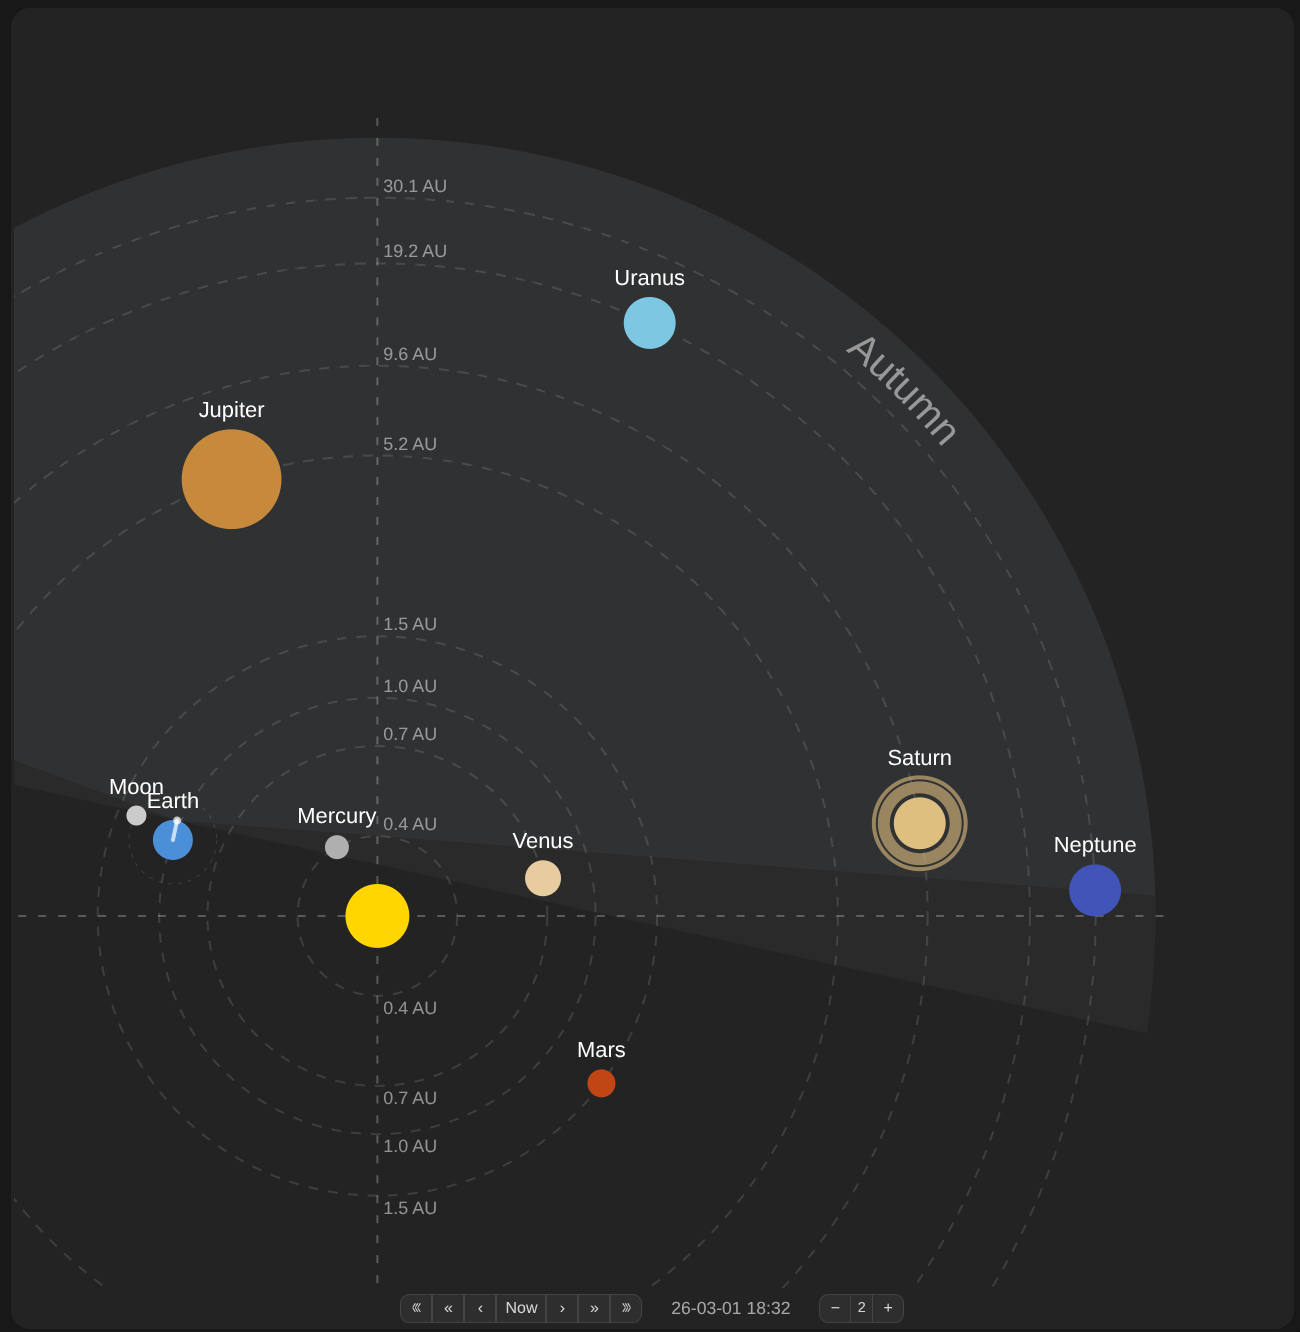
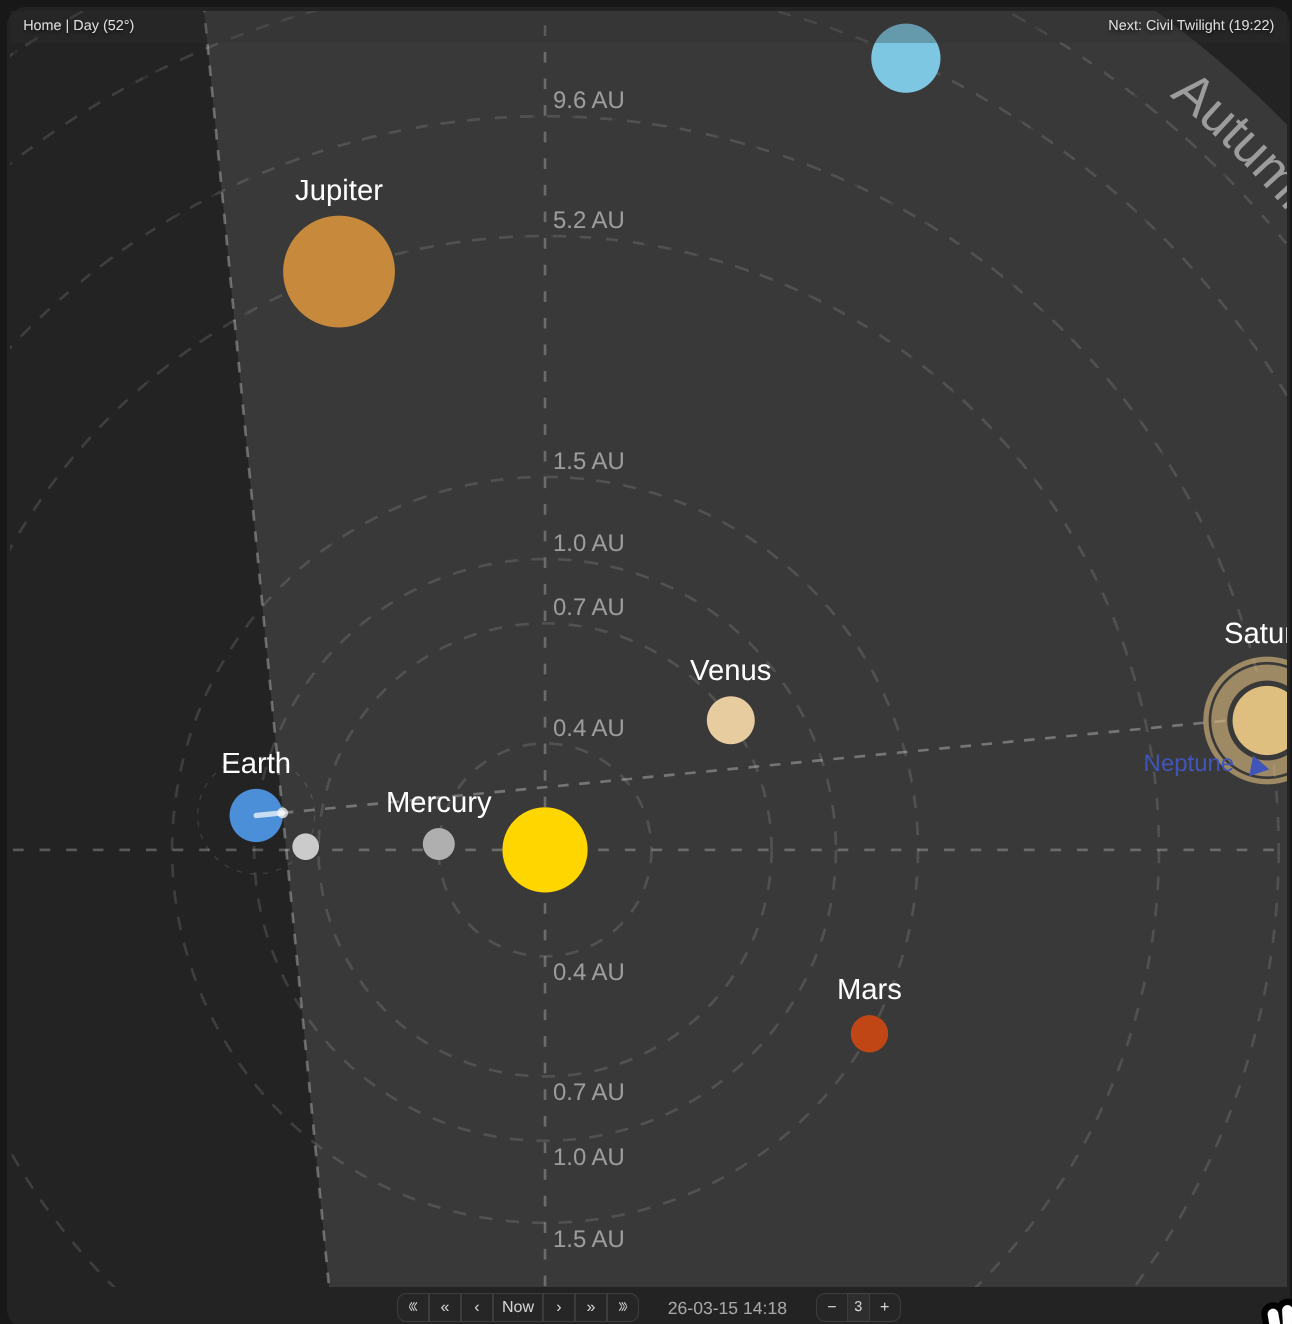
markers and zenith

diff --git a/dist/ha-solar-view-card.js b/dist/ha-solar-view-card.js
@@ -619,7 +619,7 @@ const SEASON_LINE_COLOR = "rgba(255, 255, 255, 0.25)";
 const SEASON_LABEL_COLOR = "rgba(255, 255, 255, 0.5)";
 const SEASON_FONT_SIZE = 20;
 
-function renderSeasonOverlay(svg, hemisphere, viewState) {
+function renderSeasonOverlay(svg, hemisphere) {
   // Dotted dividing lines through the Sun
   svg.appendChild(
     createSvgElement("line", {
@@ -663,11 +663,7 @@ function renderSeasonOverlay(svg, hemisphere, viewState) {
   ];
 
   const seasons = hemisphere === "south" ? southSeasons : northSeasons;
-  const defaultRadius = MAX_RADIUS + 20;
-  const labelRadius =
-    viewState && viewState.zoomLevel > 1
-      ? Math.min(defaultRadius, viewState.width / 2 - 15)
-      : defaultRadius;
+  const labelRadius = MAX_RADIUS + 20;
 
   const defs =
     svg.querySelector("defs") || svg.insertBefore(createSvgElement("defs", {}), svg.firstChild);
@@ -746,7 +742,7 @@ function renderSolarSystem(
   renderDayNightSplit(svg, earthRadius, date, earth.size, locationData);
 
   // Season quadrant overlay (after day/night, before orbits)
-  renderSeasonOverlay(svg, hemisphere, viewState);
+  renderSeasonOverlay(svg, hemisphere);
 
   // Draw orbits
   for (const planet of PLANETS) {
@@ -802,7 +798,7 @@ function renderSolarSystem(
   const moonPixelOffset = 22; // pixels from Earth
   const moonX = earthX + moonPixelOffset * Math.cos(moonAngle);
   const moonY = earthY - moonPixelOffset * Math.sin(moonAngle);
-  positions.push({ name: MOON.name, x: moonX, y: moonY, color: MOON.color });
+  positions.push({ name: MOON.name, x: moonX, y: moonY, color: MOON.color, offscreen: false });
 
   // Moon orbit (dotted circle centered on Earth)
   svg.appendChild(
@@ -817,7 +813,7 @@ function renderSolarSystem(
     })
   );
 
-  renderBody(svg, moonX, moonY, MOON);
+  renderBody(svg, moonX, moonY, MOON, false);
   expandBounds(bounds, moonX, moonY, MOON.size + 17);
 
   // Observer needle on Earth (tip at surface)
@@ -956,6 +952,9 @@ function renderOffscreenMarkers(positions, viewState) {
   const bottom = top + h;
 
   for (const pos of positions) {
+    // Skip bodies that opt out of offscreen markers (e.g. Moon)
+    if (pos.offscreen === false) continue;
+
     // Skip if inside viewport
     if (pos.x >= left && pos.x <= right && pos.y >= top && pos.y <= bottom) {
       continue;

diff --git a/docs/ha-solar-view-card.js b/docs/ha-solar-view-card.js
@@ -619,7 +619,7 @@ const SEASON_LINE_COLOR = "rgba(255, 255, 255, 0.25)";
 const SEASON_LABEL_COLOR = "rgba(255, 255, 255, 0.5)";
 const SEASON_FONT_SIZE = 20;
 
-function renderSeasonOverlay(svg, hemisphere, viewState) {
+function renderSeasonOverlay(svg, hemisphere) {
   // Dotted dividing lines through the Sun
   svg.appendChild(
     createSvgElement("line", {
@@ -663,11 +663,7 @@ function renderSeasonOverlay(svg, hemisphere, viewState) {
   ];
 
   const seasons = hemisphere === "south" ? southSeasons : northSeasons;
-  const defaultRadius = MAX_RADIUS + 20;
-  const labelRadius =
-    viewState && viewState.zoomLevel > 1
-      ? Math.min(defaultRadius, viewState.width / 2 - 15)
-      : defaultRadius;
+  const labelRadius = MAX_RADIUS + 20;
 
   const defs =
     svg.querySelector("defs") || svg.insertBefore(createSvgElement("defs", {}), svg.firstChild);
@@ -746,7 +742,7 @@ function renderSolarSystem(
   renderDayNightSplit(svg, earthRadius, date, earth.size, locationData);
 
   // Season quadrant overlay (after day/night, before orbits)
-  renderSeasonOverlay(svg, hemisphere, viewState);
+  renderSeasonOverlay(svg, hemisphere);
 
   // Draw orbits
   for (const planet of PLANETS) {
@@ -802,7 +798,7 @@ function renderSolarSystem(
   const moonPixelOffset = 22; // pixels from Earth
   const moonX = earthX + moonPixelOffset * Math.cos(moonAngle);
   const moonY = earthY - moonPixelOffset * Math.sin(moonAngle);
-  positions.push({ name: MOON.name, x: moonX, y: moonY, color: MOON.color });
+  positions.push({ name: MOON.name, x: moonX, y: moonY, color: MOON.color, offscreen: false });
 
   // Moon orbit (dotted circle centered on Earth)
   svg.appendChild(
@@ -817,7 +813,7 @@ function renderSolarSystem(
     })
   );
 
-  renderBody(svg, moonX, moonY, MOON);
+  renderBody(svg, moonX, moonY, MOON, false);
   expandBounds(bounds, moonX, moonY, MOON.size + 17);
 
   // Observer needle on Earth (tip at surface)
@@ -956,6 +952,9 @@ function renderOffscreenMarkers(positions, viewState) {
   const bottom = top + h;
 
   for (const pos of positions) {
+    // Skip bodies that opt out of offscreen markers (e.g. Moon)
+    if (pos.offscreen === false) continue;
+
     // Skip if inside viewport
     if (pos.x >= left && pos.x <= right && pos.y >= top && pos.y <= bottom) {
       continue;

diff --git a/test/renderer/seasons.test.js b/test/renderer/seasons.test.js
@@ -119,19 +119,8 @@ describe("renderSeasonOverlay", () => {
   });
 });
 
-describe("renderSeasonOverlay viewport-aware positioning", () => {
-  const defaultRadius = MAX_RADIUS + 20;
-
-  function makeViewState(zoomLevel) {
-    const sizes = { 1: 800, 2: 640, 3: 480, 4: 320 };
-    return {
-      centerX: 400,
-      centerY: 400,
-      width: sizes[zoomLevel],
-      height: sizes[zoomLevel],
-      zoomLevel,
-    };
-  }
+describe("renderSeasonOverlay fixed label radius", () => {
+  const expectedRadius = MAX_RADIUS + 20;
 
   function extractRadius(svg) {
     const path = svg.querySelector("defs #season-arc-2");
@@ -139,39 +128,14 @@ describe("renderSeasonOverlay viewport-aware positioning", () => {
     return Number(match[1]);
   }
 
-  it("uses default radius when no viewState is provided", () => {
+  it("uses fixed radius MAX_RADIUS + 20", () => {
     const svg = createSvg();
     renderSeasonOverlay(svg, "north");
-    expect(extractRadius(svg)).toBe(defaultRadius);
+    expect(extractRadius(svg)).toBe(expectedRadius);
   });
 
-  it("uses default radius at zoom level 1", () => {
-    const svg = createSvg();
-    renderSeasonOverlay(svg, "north", makeViewState(1));
-    expect(extractRadius(svg)).toBe(defaultRadius);
-  });
-
-  it("uses reduced radius at zoom level 2 to fit viewport", () => {
-    const svg = createSvg();
-    renderSeasonOverlay(svg, "north", makeViewState(2));
-    const radius = extractRadius(svg);
-    expect(radius).toBeLessThan(defaultRadius);
-    expect(radius).toBe(640 / 2 - 15);
-  });
-
-  it("uses reduced radius at zoom level 4 to fit viewport", () => {
-    const svg = createSvg();
-    renderSeasonOverlay(svg, "north", makeViewState(4));
-    const radius = extractRadius(svg);
-    expect(radius).toBeLessThan(defaultRadius);
-    expect(radius).toBe(320 / 2 - 15);
-  });
-
-  it("still renders all four season labels at high zoom", () => {
-    const svg = createSvg();
-    renderSeasonOverlay(svg, "north", makeViewState(4));
-    const textPaths = svg.querySelectorAll("textPath");
-    expect(textPaths.length).toBe(4);
+  it("does not accept a viewState parameter", () => {
+    expect(renderSeasonOverlay.length).toBe(2);
   });
 });
 

diff --git a/src/renderer/index.js b/src/renderer/index.js
@@ -35,7 +35,7 @@ export function renderSolarSystem(
   renderDayNightSplit(svg, earthRadius, date, earth.size, locationData);
 
   // Season quadrant overlay (after day/night, before orbits)
-  renderSeasonOverlay(svg, hemisphere, viewState);
+  renderSeasonOverlay(svg, hemisphere);
 
   // Draw orbits
   for (const planet of PLANETS) {
@@ -91,7 +91,7 @@ export function renderSolarSystem(
   const moonPixelOffset = 22; // pixels from Earth
   const moonX = earthX + moonPixelOffset * Math.cos(moonAngle);
   const moonY = earthY - moonPixelOffset * Math.sin(moonAngle);
-  positions.push({ name: MOON.name, x: moonX, y: moonY, color: MOON.color });
+  positions.push({ name: MOON.name, x: moonX, y: moonY, color: MOON.color, offscreen: false });
 
   // Moon orbit (dotted circle centered on Earth)
   svg.appendChild(
@@ -106,7 +106,7 @@ export function renderSolarSystem(
     })
   );
 
-  renderBody(svg, moonX, moonY, MOON);
+  renderBody(svg, moonX, moonY, MOON, false);
   expandBounds(bounds, moonX, moonY, MOON.size + 17);
 
   // Observer needle on Earth (tip at surface)

diff --git a/src/renderer/seasons.js b/src/renderer/seasons.js
@@ -4,7 +4,7 @@ const SEASON_LINE_COLOR = "rgba(255, 255, 255, 0.25)";
 const SEASON_LABEL_COLOR = "rgba(255, 255, 255, 0.5)";
 const SEASON_FONT_SIZE = 20;
 
-export function renderSeasonOverlay(svg, hemisphere, viewState) {
+export function renderSeasonOverlay(svg, hemisphere) {
   // Dotted dividing lines through the Sun
   svg.appendChild(
     createSvgElement("line", {
@@ -48,11 +48,7 @@ export function renderSeasonOverlay(svg, hemisphere, viewState) {
   ];
 
   const seasons = hemisphere === "south" ? southSeasons : northSeasons;
-  const defaultRadius = MAX_RADIUS + 20;
-  const labelRadius =
-    viewState && viewState.zoomLevel > 1
-      ? Math.min(defaultRadius, viewState.width / 2 - 15)
-      : defaultRadius;
+  const labelRadius = MAX_RADIUS + 20;
 
   const defs =
     svg.querySelector("defs") || svg.insertBefore(createSvgElement("defs", {}), svg.firstChild);

diff --git a/test/renderer/offscreen-markers.test.js b/test/renderer/offscreen-markers.test.js
@@ -66,4 +66,11 @@ describe("renderOffscreenMarkers", () => {
     const group = renderOffscreenMarkers(positions, vs);
     expect(group.children.length).toBe(0);
   });
+
+  it("no marker for Moon when offscreen is false", () => {
+    const positions = [{ name: "Moon", x: 0, y: 0, color: "#cccccc", offscreen: false }];
+    const vs = makeViewState(4);
+    const group = renderOffscreenMarkers(positions, vs);
+    expect(group.children.length).toBe(0);
+  });
 });

diff --git a/src/renderer/offscreen-markers.js b/src/renderer/offscreen-markers.js
@@ -124,6 +124,9 @@ export function renderOffscreenMarkers(positions, viewState) {
   const bottom = top + h;
 
   for (const pos of positions) {
+    // Skip bodies that opt out of offscreen markers (e.g. Moon)
+    if (pos.offscreen === false) continue;
+
     // Skip if inside viewport
     if (pos.x >= left && pos.x <= right && pos.y >= top && pos.y <= bottom) {
       continue;

diff --git a/test/renderer/index.test.js b/test/renderer/index.test.js
@@ -82,7 +82,7 @@ describe("renderSolarSystem", () => {
     expect(texts).toContain("Earth");
     expect(texts).toContain("Mars");
     expect(texts).toContain("Neptune");
-    expect(texts).toContain("Moon");
+    expect(texts).not.toContain("Moon");
   });
 
   it("renders AU distance labels on vertical axis in mirrored pairs", () => {

diff --git a/openspec/specs/offscreen-markers/spec.md b/openspec/specs/offscreen-markers/spec.md
@@ -11,6 +11,9 @@ The `renderSolarSystem` function SHALL return a `positions` array alongside the 
 `bounds` properties. Each entry SHALL contain `{ name, x, y, color }` for every planet and the Moon,
 where `x` and `y` are SVG coordinate positions and `color` is the object's rendered color.
 
+The Moon's position entry SHALL include an `offscreen: false` property to signal that offscreen
+markers SHALL NOT be rendered for the Moon.
+
 #### Scenario: Positions array includes all planets and Moon
 
 - **WHEN** `renderSolarSystem` is called for any date
@@ -24,11 +27,20 @@ where `x` and `y` are SVG coordinate positions and `color` is the object's rende
 - **THEN** each planet's `x` and `y` in the positions array SHALL match the coordinates used to
   render that planet's body in the SVG
 
+#### Scenario: Moon position entry has offscreen flag set to false
+
+- **WHEN** `renderSolarSystem` is called for any date
+- **THEN** the Moon's entry in `positions` SHALL include `offscreen: false`
+- **AND** all planet entries SHALL NOT include an `offscreen` property (defaulting to eligible)
+
 ### Requirement: Off-screen marker display
 
-When a planet or the Moon falls outside the current viewBox boundaries, the card SHALL render a
-triangular marker at the nearest viewport edge pointing toward the off-screen object. The marker
-SHALL be accompanied by a name label identifying the object.
+When a planet falls outside the current viewBox boundaries, the card SHALL render a triangular
+marker at the nearest viewport edge pointing toward the off-screen object. The marker SHALL be
+accompanied by a name label identifying the object.
+
+The Moon SHALL be excluded from offscreen marker rendering. `renderOffscreenMarkers` in
+`src/renderer/offscreen-markers.js` SHALL skip any position entry where `offscreen` is `false`.
 
 #### Scenario: Marker appears for off-screen planet
 
@@ -46,6 +58,13 @@ SHALL be accompanied by a name label identifying the object.
 
 - **WHEN** an off-screen marker is displayed for a planet
 - **THEN** the planet's name SHALL be displayed adjacent to the triangle marker
+
+#### Scenario: Moon excluded from offscreen markers
+
+- **WHEN** the Moon's SVG coordinates fall outside the visible viewBox rectangle
+- **THEN** no off-screen marker SHALL be displayed for the Moon
+- **AND** the Moon's position entry with `offscreen: false` SHALL be skipped by
+  `renderOffscreenMarkers`
 
 #### Scenario: All planets at zoom level 1
 
@@ -117,3 +136,25 @@ toward the planet.
 - **WHEN** a planet is off-screen to the upper-right of the viewport
 - **THEN** the marker SHALL appear at the intersection of the line from center to planet with the
   viewport boundary (either top or right edge, whichever is hit first)
+
+### Requirement: Moon text label suppression
+
+The Moon's circular body marker SHALL be rendered by `renderBody` in `src/renderer/bodies.js`, but
+the text label ("Moon") SHALL be suppressed by passing `showLabel = false`. This prevents visual
+clutter where the Moon and Earth labels overlap due to their close proximity (22px offset).
+
+Implementation: `renderSolarSystem` in `src/renderer/index.js` SHALL call
+`renderBody(svg, moonX, moonY, MOON, false)`.
+
+#### Scenario: Moon body visible without text label
+
+- **WHEN** the solar system is rendered for any date
+- **THEN** the Moon's circular body marker SHALL be visible at its computed position
+- **AND** no text element with content "Moon" SHALL be rendered by the Moon's `renderBody` call
+
+#### Scenario: Moon marker dot unchanged
+
+- **WHEN** the Moon is rendered
+- **THEN** the Moon's circle element SHALL have the same size and color as before (defined by `MOON`
+  in `src/astronomy/planet-data.js`)
+- **AND** the Moon's orbital dotted circle around Earth SHALL remain unchanged

diff --git a/openspec/specs/season-overlay/spec.md b/openspec/specs/season-overlay/spec.md
@@ -9,40 +9,40 @@ through the Sun and curved arc labels along Neptune's orbit showing season names
 
 The season quadrant overlay (dividing lines and curved arc labels rendered by `renderSeasonOverlay`
 in `src/renderer/seasons.js`) SHALL be rendered at **all zoom levels** (1 through 4). The arc labels
-SHALL be repositioned at higher zoom levels so they remain within the visible viewport.
+SHALL always use a fixed radius of `MAX_RADIUS + 20`, regardless of the current zoom level or
+viewport size.
 
-When a `viewState` is provided and the zoom level is greater than 1, the label radius SHALL be
-computed as `min(MAX_RADIUS + 20, viewState.width / 2 - margin)` so that arc labels fit within the
-current viewBox. When no `viewState` is provided or zoom level is 1, the label radius SHALL default
-to `MAX_RADIUS + 20` (existing behavior).
+The `renderSeasonOverlay` function SHALL accept only `svg` and `hemisphere` parameters. The
+`viewState` parameter SHALL be removed from the function signature and from the call site in
+`renderSolarSystem` (`src/renderer/index.js`).
 
 Implementation: `renderSeasonOverlay` in `src/renderer/seasons.js`, called from `renderSolarSystem`
 in `src/renderer/index.js`.
 
-#### Scenario: Season overlay visible at zoom level 1
+#### Scenario: Season overlay at zoom level 1 uses fixed radius
 
 - **GIVEN** the viewBox is at zoom level 1 (800x800)
 - **WHEN** the season overlay is rendered
 - **THEN** the season quadrant overlay SHALL be rendered with dividing lines and arc labels
 - **AND** the label radius SHALL be `MAX_RADIUS + 20`
 
-#### Scenario: Season overlay visible at zoom level 2
+#### Scenario: Season overlay at zoom level 2 uses same fixed radius
 
 - **GIVEN** the viewBox is at zoom level 2 (640x640)
-- **WHEN** the season overlay is rendered with a `viewState`
-- **THEN** the season quadrant overlay SHALL be rendered with dividing lines and arc labels
-- **AND** the arc labels SHALL be repositioned to fit within the 640x640 viewport
+- **WHEN** the season overlay is rendered
+- **THEN** the label radius SHALL be `MAX_RADIUS + 20`
+- **AND** the labels SHALL NOT be repositioned to fit the viewport
 
-#### Scenario: Season overlay visible at zoom level 4
+#### Scenario: Season overlay at zoom level 4 uses same fixed radius
 
 - **GIVEN** the viewBox is at zoom level 4 (320x320)
-- **WHEN** the season overlay is rendered with a `viewState`
-- **THEN** the season quadrant overlay SHALL be rendered with dividing lines and arc labels
-- **AND** the arc labels SHALL be repositioned to fit within the 320x320 viewport
-
-#### Scenario: Season overlay without viewState uses default radius
-
-- **GIVEN** no `viewState` is provided (e.g., in tests or previews)
 - **WHEN** the season overlay is rendered
-- **THEN** the label radius SHALL default to `MAX_RADIUS + 20`
-- **AND** behavior SHALL be identical to the existing implementation
+- **THEN** the label radius SHALL be `MAX_RADIUS + 20`
+- **AND** the labels SHALL NOT be repositioned to fit the viewport
+
+#### Scenario: renderSeasonOverlay does not accept viewState
+
+- **GIVEN** the `renderSeasonOverlay` function in `src/renderer/seasons.js`
+- **WHEN** the function is called
+- **THEN** it SHALL accept exactly two parameters: `svg` and `hemisphere`
+- **AND** it SHALL NOT reference `viewState` or zoom level in its label radius calculation
